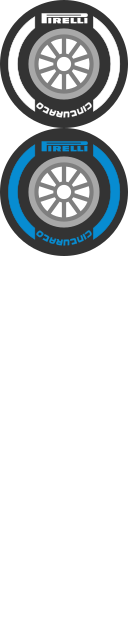
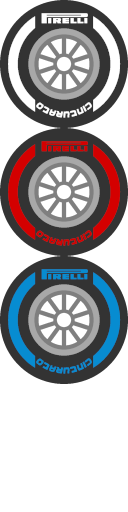
added support for multiple dry tires

diff --git a/src/frontend/components/Standings/components/Compound/Compound.stories.tsx b/src/frontend/components/Standings/components/Compound/Compound.stories.tsx
@@ -27,15 +27,21 @@ export const AllCompound: Story = {
     <div className="flex flex-col gap-4 p-4 bg-slate-800 rounded-lg">
         <div key={0} className="flex items-center gap-4">
           <span className="text-white w-24">0:</span>
-          <Compound tireCompound={0} size="sm" />
-          <Compound tireCompound={0} size="md" />
-          <Compound tireCompound={0} size="lg" />
+          <Compound tireCompound={0} carId={71} size="sm" />
+          <Compound tireCompound={0} carId={71} size="md" />
+          <Compound tireCompound={0} carId={71} size="lg" />
         </div>
         <div key={1} className="flex items-center gap-4">
           <span className="text-white w-24">1:</span>
-          <Compound tireCompound={1} size="sm" />
-          <Compound tireCompound={1} size="md" />
-          <Compound tireCompound={1} size="lg" />
+          <Compound tireCompound={1} carId={71} size="sm" />
+          <Compound tireCompound={1} carId={71} size="md" />
+          <Compound tireCompound={1} carId={71} size="lg" />
+        </div>
+        <div key={2} className="flex items-center gap-4">
+          <span className="text-white w-24">2:</span>
+          <Compound tireCompound={2} carId={71} size="sm" />
+          <Compound tireCompound={2} carId={71} size="md" />
+          <Compound tireCompound={2} carId={71} size="lg" />
         </div>
     </div>
   ),

diff --git a/src/frontend/components/Standings/components/Compound/Compound.tsx b/src/frontend/components/Standings/components/Compound/Compound.tsx
@@ -1,7 +1,10 @@
 import React from 'react';
 import tireCompoundImage from '../../../../assets/img/tire_compound.png';
 
+const carsWithMultipleDryTires : number[] = [71, 99, 129, 145, 161]
+
 interface CompoundProps {
+  carId: number;
   tireCompound: number;
   className?: string;
   size?: 'sm' | 'md' | 'lg';
@@ -17,19 +20,31 @@ const sizeClasses = {
 
 const compoundPositions: Record<number, { x: string; y: string }> = {
   0: { x: '0', y: '0' },
-  1: { x: '0', y: '25%' },
+  1: { x: '0', y: '33%' },
+  2: { x: '0', y: '66%' },
 };
 
 export const Compound: React.FC<CompoundProps> = ({
+  carId,
   tireCompound,
   size = 'md',
 }) => {
+
+  let tireIndex: number;
 
   if (tireCompound < 0) {
     return null;
   }
 
-  const position = compoundPositions[tireCompound];
+
+  if (carsWithMultipleDryTires.includes(carId)) {
+      tireIndex = tireCompound;
+  } else {
+      tireIndex = tireCompound === 0 ? 0 : 2;
+  }
+
+
+  const position = compoundPositions[tireIndex];
 
 
   return (

diff --git a/src/frontend/components/Standings/components/DriverInfoRow/DriverInfoRow.tsx b/src/frontend/components/Standings/components/DriverInfoRow/DriverInfoRow.tsx
@@ -133,7 +133,7 @@ export const DriverInfoRow = ({
       )}
      {tireCompound !== undefined && (
         <td>
-          <div className="flex items-center pr-1"> 
+          <div className="flex items-center pr-1">
            <Compound tireCompound={tireCompound} size="sm" />
           </div>
         </td>
